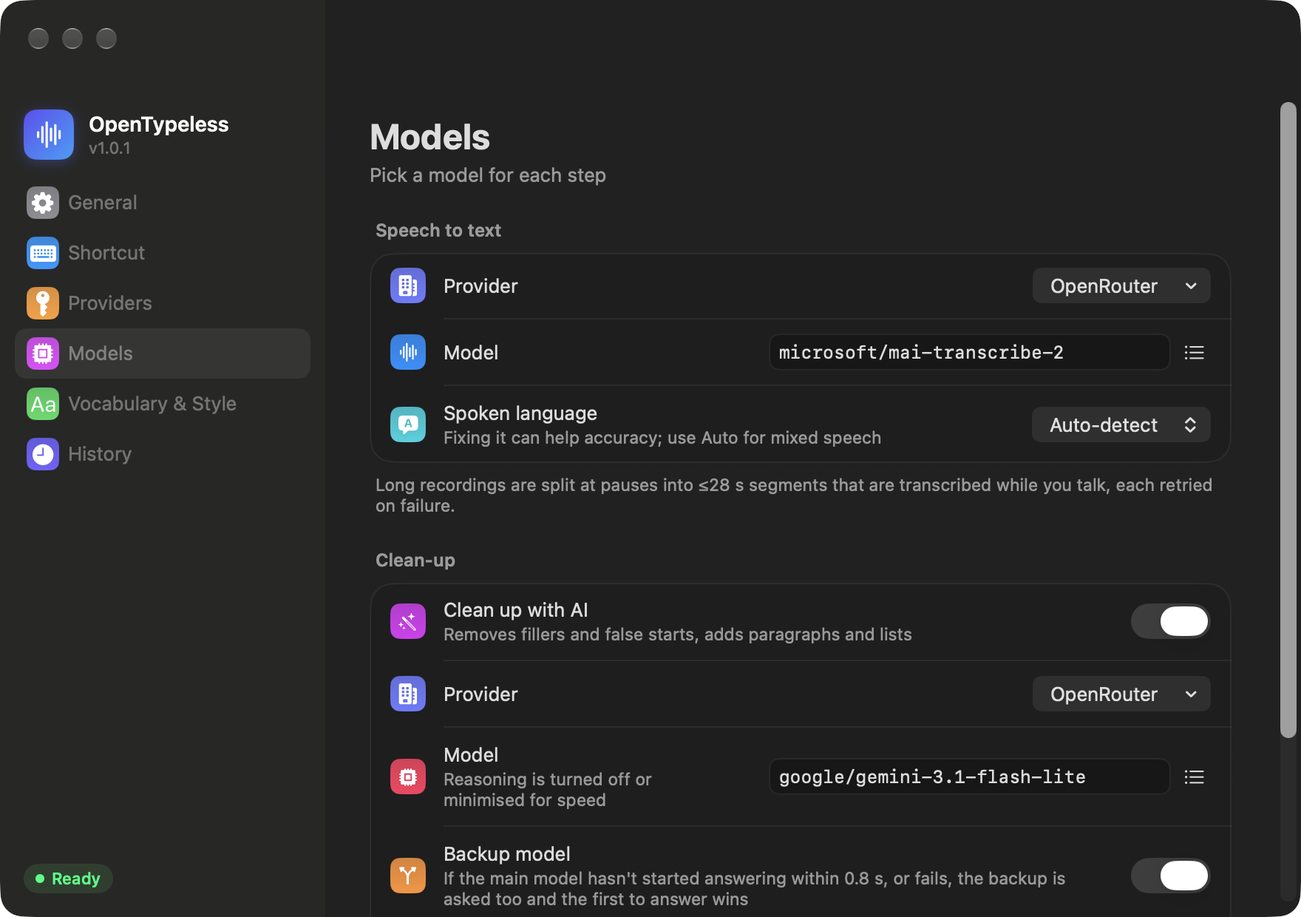
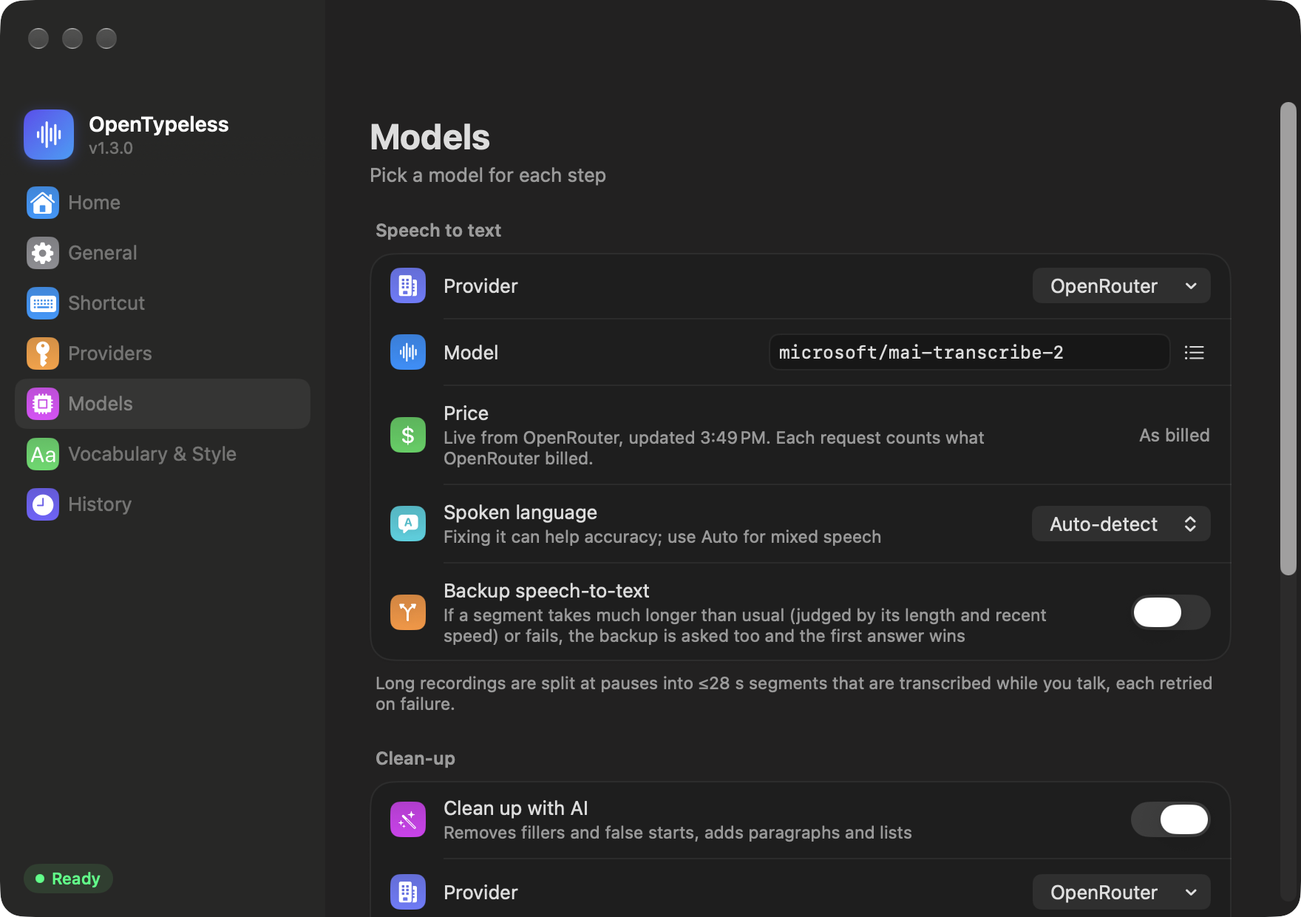
README: screenshots of the current UI, and the Home page
The menu-bar panel, recording capsule, History, Models and Vocabulary
screenshots were taken at 1.0.1; they now show 1.3.0: History grouped by
day with search and cost, Models with live prices and backup
speech-to-text, and the new Home page (added under the feature list, in
all nine READMEs). Captions and alt text follow what the pictures show.

Rendered from sample data as before, never real history, now in a
scratch bundle so the sidebar shows the version:
  OPENTYPELESS_SUPPORT_DIR=<sample> OpenTypeless --snapshot-ui <dir> --live --demo --dark --lang en
`--dark` is new: it renders the dark appearance whatever the system
uses, the menu-bar popover included (it follows the menu bar, not the
app).

No version change.

diff --git a/macos/Sources/OpenTypeless/UISnapshots.swift b/macos/Sources/OpenTypeless/UISnapshots.swift
@@ -9,6 +9,8 @@ enum UISnapshots {
     static func run(outputDirectory: String) {
         // `--demo`: pretend permissions are granted (pair with OPENTYPELESS_SUPPORT_DIR pointing at sample history).
         Permissions.assumeGranted = CommandLine.arguments.contains("--demo")
+        // `--dark`: dark appearance whatever the system uses, so README screenshots match each other.
+        if CommandLine.arguments.contains("--dark") { NSApp.appearance = NSAppearance(named: .darkAqua) }
         let dir = URL(fileURLWithPath: outputDirectory)
         try? FileManager.default.createDirectory(at: dir, withIntermediateDirectories: true)
         let controller = SessionController()
@@ -73,6 +75,8 @@ enum UISnapshots {
         RunLoop.main.run(until: Date().addingTimeInterval(0.5))
         guard let button = item.button, let buttonWindow = button.window else { return }
         popover.show(from: button)
+        // The popover takes the menu bar's appearance, not the app's.
+        if let forced = NSApp.appearance { popover.window?.appearance = forced }
         RunLoop.main.run(until: Date().addingTimeInterval(1.0))
         let icon = buttonWindow.convertToScreen(button.convert(button.bounds, to: nil))
         if let window = popover.window, let screen = buttonWindow.screen {

diff --git a/README.ru.md b/README.ru.md
@@ -65,7 +65,7 @@ OpenTypeless построен вокруг этой проблемы.
 - **Ваши слова, ваши языки.** Правки минимальны: формулировки, порядок и тон остаются вашими. Если вы смешиваете китайский и английский, каждое слово остаётся на том языке, на котором вы его произнесли, даже бытовые («shortcut», «dark mode»), а между текстом CJK и латиницей ставится пробел.
 
 <p align="center">
-  <img src="docs/images/history.png" width="720" alt="История: очищенный текст над исходной расшифровкой, со временем каждого шага">
+  <img src="docs/images/history.png" width="720" alt="История: диктовки сгруппированы по дням и доступны для поиска, с очищенным текстом, временем и стоимостью">
 </p>
 
 Промпт настроен на обучающем и отложенном тестовом наборах (см. [eval/](eval/)), включая реальные диктовки.
@@ -91,13 +91,17 @@ OpenTypeless построен вокруг этой проблемы.
 - **Обновляется сам.** Раз в день проверяет GitHub Releases, скачивает новую версию в фоне и устанавливает её, когда вы нажмёте **Перезапустить и обновить**, — никогда посреди диктовки. Перед заменой файлов загрузка сверяется с SHA-256 от GitHub. Отключить или проверить вручную можно в **Настройки → Общие → Обновления**.
 - **Компактный и нативный.** Приложение на Swift/SwiftUI размером около 3 МБ на macOS и автономное приложение на WinUI 3 в Windows. Без Electron, без учётной записи и без собственного сервера.
 
+<p align="center">
+  <img src="docs/images/home.png" width="720" alt="Главная: надиктованные слова, сэкономленное время, скорость речи, расходы и тепловая карта активности в стиле GitHub">
+</p>
+
 <table>
   <tr>
-    <td width="50%"><img src="docs/images/models.png" alt="Модели: провайдер и модель для каждого шага и резервная модель очистки"></td>
+    <td width="50%"><img src="docs/images/models.png" alt="Модели: провайдер и модель для каждого шага, с актуальными ценами и резервом"></td>
     <td width="50%"><img src="docs/images/vocabulary.png" alt="Словарь: ваши термины, в том числе выученные из ваших исправлений"></td>
   </tr>
   <tr>
-    <td align="center">Провайдер и модель для каждого шага, с резервной моделью очистки</td>
+    <td align="center">Провайдер и модель для каждого шага, с актуальными ценами и резервом</td>
     <td align="center">Словарь, в том числе слова, выученные из ваших исправлений</td>
   </tr>
 </table>

diff --git a/README.ja.md b/README.ja.md
@@ -65,7 +65,7 @@ OpenTypeless はこの問題を中心に作られています。
 - **あなたの言葉、あなたの言語。** 編集は最小限で、言い回し、順序、口調はそのまま残ります。中国語と英語を混ぜて話した場合、日常語も含めて（「shortcut」「dark mode」）すべての単語が話したときの言語のまま残り、CJK と欧文の間にはスペースが入ります。
 
 <p align="center">
-  <img src="docs/images/history.png" width="720" alt="履歴：整形後のテキストが元の文字起こしの上にあり、各ステップの所要時間も表示">
+  <img src="docs/images/history.png" width="720" alt="履歴：日ごとにまとめられ検索でき、整形後のテキスト、所要時間、費用を表示">
 </p>
 
 プロンプトは開発用とホールドアウトのテストセット（[eval/](eval/) を参照）で調整されており、実際の口述も含まれています。
@@ -91,13 +91,17 @@ OpenTypeless はこの問題を中心に作られています。
 - **自動アップデート。** 1 日 1 回 GitHub Releases を確認し、新しいバージョンをバックグラウンドでダウンロードして、**再起動して更新** をクリックしたときにインストールします。音声入力の途中で行うことはありません。ファイルを置き換える前に、ダウンロードを GitHub の SHA-256 と照合します。**設定 → 一般 → アップデート** でオフにしたり、手動で確認したりできます。
 - **小さくてネイティブ。** macOS では約 3 MB の Swift/SwiftUI アプリ、Windows では自己完結型の WinUI 3 アプリ。Electron もアカウントも独自サーバーもありません。
 
+<p align="center">
+  <img src="docs/images/home.png" width="720" alt="ホーム：話した文字数、節約できた時間、話す速さ、費用、GitHub 風アクティビティヒートマップ">
+</p>
+
 <table>
   <tr>
-    <td width="50%"><img src="docs/images/models.png" alt="モデル：ステップごとのプロバイダとモデル、さらに予備の整形モデル"></td>
+    <td width="50%"><img src="docs/images/models.png" alt="モデル：ステップごとのプロバイダとモデル、リアルタイムの価格、さらに予備"></td>
     <td width="50%"><img src="docs/images/vocabulary.png" alt="語彙：修正から学習したものを含むあなたの用語"></td>
   </tr>
   <tr>
-    <td align="center">ステップごとにプロバイダとモデルを選択、予備の整形モデルも</td>
+    <td align="center">ステップごとにプロバイダとモデルを選択、リアルタイムの価格と予備も</td>
     <td align="center">修正から学習した単語を含む語彙</td>
   </tr>
 </table>

diff --git a/README.fr.md b/README.fr.md
@@ -65,7 +65,7 @@ La transcription brute est brouillonne : tics de langage, reprises, « non atten
 - **Vos mots, vos langues.** Les modifications sont minimales : formulation, ordre et ton restent les vôtres. Quand vous mélangez chinois et anglais, chaque mot reste dans la langue où vous l’avez dit, y compris les mots courants (« shortcut », « dark mode »), avec une espace entre texte CJK et texte latin.
 
 <p align="center">
-  <img src="docs/images/history.png" width="720" alt="Historique : le texte nettoyé au-dessus de la transcription brute, avec la durée de chaque étape">
+  <img src="docs/images/history.png" width="720" alt="Historique : les dictées regroupées par jour et consultables par recherche, avec le texte nettoyé, les durées et le coût">
 </p>
 
 Le prompt est ajusté sur des jeux de développement et de test réservés (voir [eval/](eval/)), qui incluent de vraies dictées.
@@ -91,13 +91,17 @@ Le prompt est ajusté sur des jeux de développement et de test réservés (voir
 - **Se met à jour toute seule.** Vérifie GitHub Releases une fois par jour, télécharge la nouvelle version en arrière-plan et l’installe quand vous cliquez sur **Redémarrer pour mettre à jour**, jamais au milieu d’une dictée. Les téléchargements sont vérifiés avec le SHA-256 de GitHub avant tout remplacement. Désactivez-la, ou vérifiez manuellement, dans **Réglages → Général → Mises à jour**.
 - **Légère et native.** Une app Swift/SwiftUI d’environ 3 Mo sur macOS et une app WinUI 3 autonome sur Windows. Pas d’Electron, pas de compte et pas de serveur à elle.
 
+<p align="center">
+  <img src="docs/images/home.png" width="720" alt="Accueil : mots dictés, temps gagné, débit de parole, dépenses et une carte d’activité façon GitHub">
+</p>
+
 <table>
   <tr>
-    <td width="50%"><img src="docs/images/models.png" alt="Modèles : un fournisseur et un modèle pour chaque étape, plus un modèle de nettoyage de secours"></td>
+    <td width="50%"><img src="docs/images/models.png" alt="Modèles : un fournisseur et un modèle pour chaque étape, avec les prix en direct et un secours"></td>
     <td width="50%"><img src="docs/images/vocabulary.png" alt="Vocabulaire : vos termes, y compris ceux appris de vos corrections"></td>
   </tr>
   <tr>
-    <td align="center">Un fournisseur et un modèle pour chaque étape, avec un modèle de nettoyage de secours</td>
+    <td align="center">Un fournisseur et un modèle pour chaque étape, avec les prix en direct et un secours</td>
     <td align="center">Le vocabulaire, y compris les mots appris de vos corrections</td>
   </tr>
 </table>

diff --git a/README.ko.md b/README.ko.md
@@ -65,7 +65,7 @@ OpenTypeless는 바로 이 문제를 중심으로 만들어졌습니다.
 - **여러분의 말, 여러분의 언어.** 수정은 최소한으로 하며 표현, 순서, 말투는 그대로 둡니다. 중국어와 영어를 섞어 말하면 일상 단어("shortcut", "dark mode")까지 모든 단어가 말한 언어 그대로 남고, CJK 문자와 라틴 문자 사이에는 공백이 들어갑니다.
 
 <p align="center">
-  <img src="docs/images/history.png" width="720" alt="기록: 원본 변환 결과 위에 다듬은 텍스트와 단계별 소요 시간">
+  <img src="docs/images/history.png" width="720" alt="기록: 날짜별로 묶이고 검색 가능하며, 다듬은 텍스트와 소요 시간, 비용 표시">
 </p>
 
 프롬프트는 개발용 세트와 홀드아웃 테스트 세트([eval/](eval/) 참고)로 조정했으며, 실제 받아쓰기도 포함되어 있습니다.
@@ -91,13 +91,17 @@ OpenTypeless는 바로 이 문제를 중심으로 만들어졌습니다.
 - **자동 업데이트.** 하루에 한 번 GitHub Releases를 확인하고, 새 버전을 백그라운드에서 다운로드한 뒤 **재시작하여 업데이트**를 클릭할 때 설치합니다. 받아쓰기 도중에는 절대 설치하지 않습니다. 파일을 교체하기 전에 다운로드를 GitHub의 SHA-256과 대조합니다. **설정 → 일반 → 업데이트**에서 끄거나 직접 확인할 수 있습니다.
 - **작고 네이티브.** macOS에서는 약 3MB의 Swift/SwiftUI 앱, Windows에서는 자체 포함형 WinUI 3 앱입니다. Electron도, 계정도, 자체 서버도 없습니다.
 
+<p align="center">
+  <img src="docs/images/home.png" width="720" alt="홈: 받아쓴 단어 수, 절약한 시간, 말하기 속도, 비용, GitHub 스타일 활동 히트맵">
+</p>
+
 <table>
   <tr>
-    <td width="50%"><img src="docs/images/models.png" alt="모델: 단계별 제공업체와 모델, 그리고 백업 다듬기 모델"></td>
+    <td width="50%"><img src="docs/images/models.png" alt="모델: 단계별 제공업체와 모델, 실시간 가격, 그리고 백업"></td>
     <td width="50%"><img src="docs/images/vocabulary.png" alt="어휘: 수정에서 학습한 것을 포함한 나의 용어"></td>
   </tr>
   <tr>
-    <td align="center">단계별로 제공업체와 모델 선택, 백업 다듬기 모델까지</td>
+    <td align="center">단계별로 제공업체와 모델 선택, 실시간 가격과 백업까지</td>
     <td align="center">수정에서 학습한 단어를 포함한 어휘</td>
   </tr>
 </table>

diff --git a/README.de.md b/README.de.md
@@ -65,7 +65,7 @@ Rohe Spracherkennung ist unordentlich: Füllwörter, Neuanfänge, „nein, warte
 - **Deine Worte, deine Sprachen.** Änderungen bleiben minimal: Wortwahl, Reihenfolge und Ton bleiben deine. Wenn du Chinesisch und Englisch mischst, bleibt jedes Wort in der Sprache, in der du es gesagt hast, auch Alltagswörter („shortcut“, „dark mode“), mit Leerzeichen zwischen CJK- und lateinischem Text.
 
 <p align="center">
-  <img src="docs/images/history.png" width="720" alt="Verlauf: der bereinigte Text über dem Rohtranskript, mit der Dauer jedes Schritts">
+  <img src="docs/images/history.png" width="720" alt="Verlauf: Diktate nach Tagen gruppiert und durchsuchbar, mit bereinigtem Text, Zeiten und Kosten">
 </p>
 
 Der Prompt ist auf Entwicklungs- und zurückgehaltenen Testsets abgestimmt (siehe [eval/](eval/)), darunter echte Diktate.
@@ -91,13 +91,17 @@ Der Prompt ist auf Entwicklungs- und zurückgehaltenen Testsets abgestimmt (sieh
 - **Aktualisiert sich selbst.** Prüft einmal täglich GitHub Releases, lädt eine neue Version im Hintergrund und installiert sie, wenn du auf **Neu starten und aktualisieren** klickst, nie mitten in einem Diktat. Downloads werden vor jedem Austausch gegen GitHubs SHA-256 geprüft. Abschalten oder manuell prüfen kannst du unter **Einstellungen → Allgemein → Updates**.
 - **Klein und nativ.** Eine ca. 3 MB große Swift/SwiftUI-App auf macOS und eine eigenständige WinUI-3-App auf Windows. Kein Electron, kein Konto und kein eigener Server.
 
+<p align="center">
+  <img src="docs/images/home.png" width="720" alt="Startseite: diktierte Wörter, gesparte Zeit, Sprechtempo, Kosten und eine Aktivitäts-Heatmap im GitHub-Stil">
+</p>
+
 <table>
   <tr>
-    <td width="50%"><img src="docs/images/models.png" alt="Modelle: ein Anbieter und ein Modell für jeden Schritt, dazu ein Backup-Bereinigungsmodell"></td>
+    <td width="50%"><img src="docs/images/models.png" alt="Modelle: ein Anbieter und ein Modell für jeden Schritt, mit Live-Preisen und einem Backup"></td>
     <td width="50%"><img src="docs/images/vocabulary.png" alt="Vokabular: deine Begriffe, auch die aus deinen Korrekturen gelernten"></td>
   </tr>
   <tr>
-    <td align="center">Anbieter und Modell für jeden Schritt, mit Backup-Bereinigungsmodell</td>
+    <td align="center">Anbieter und Modell für jeden Schritt, mit Live-Preisen und Backup</td>
     <td align="center">Vokabular, auch mit aus deinen Korrekturen gelernten Wörtern</td>
   </tr>
 </table>

diff --git a/README.es.md b/README.es.md
@@ -65,7 +65,7 @@ La transcripción en bruto es desordenada: muletillas, frases que se reinician, 
 - **Tus palabras, tus idiomas.** Los cambios son mínimos: la redacción, el orden y el tono siguen siendo tuyos. Si mezclas chino e inglés, cada palabra se queda en el idioma en que la dijiste, también las cotidianas («shortcut», «dark mode»), con espacio entre el texto CJK y el latino.
 
 <p align="center">
-  <img src="docs/images/history.png" width="720" alt="Historial: el texto limpio sobre la transcripción original, con el tiempo de cada paso">
+  <img src="docs/images/history.png" width="720" alt="Historial: dictados agrupados por día y con búsqueda, con el texto limpio, los tiempos y el coste">
 </p>
 
 El prompt está ajustado con conjuntos de desarrollo y de prueba reservados (ver [eval/](eval/)), que incluyen dictados reales.
@@ -91,13 +91,17 @@ El prompt está ajustado con conjuntos de desarrollo y de prueba reservados (ver
 - **Se actualiza sola.** Busca en GitHub Releases una vez al día, descarga la nueva versión en segundo plano y la instala cuando pulsas **Reiniciar para actualizar**, nunca en mitad de un dictado. Las descargas se comprueban con el SHA-256 de GitHub antes de reemplazar nada. Desactívalo, o búscalas a mano, en **Ajustes → General → Actualizaciones**.
 - **Pequeña y nativa.** Una app Swift/SwiftUI de ~3 MB en macOS y una app WinUI 3 autónoma en Windows. Sin Electron, sin cuenta y sin servidor propio.
 
+<p align="center">
+  <img src="docs/images/home.png" width="720" alt="Inicio: palabras dictadas, tiempo ahorrado, velocidad al hablar, gasto y un mapa de actividad al estilo de GitHub">
+</p>
+
 <table>
   <tr>
-    <td width="50%"><img src="docs/images/models.png" alt="Modelos: un proveedor y un modelo para cada paso, más un modelo de limpieza de respaldo"></td>
+    <td width="50%"><img src="docs/images/models.png" alt="Modelos: un proveedor y un modelo para cada paso, con precios en vivo y un respaldo"></td>
     <td width="50%"><img src="docs/images/vocabulary.png" alt="Vocabulario: tus términos, incluidos los aprendidos de tus correcciones"></td>
   </tr>
   <tr>
-    <td align="center">Elige un proveedor y un modelo para cada paso, con un modelo de limpieza de respaldo</td>
+    <td align="center">Elige un proveedor y un modelo para cada paso, con precios en vivo y un respaldo</td>
     <td align="center">Vocabulario, incluidas las palabras aprendidas de tus correcciones</td>
   </tr>
 </table>

diff --git a/README.pt-BR.md b/README.pt-BR.md
@@ -65,7 +65,7 @@ A transcrição bruta é bagunçada: vícios de linguagem, recomeços, "não, es
 - **Suas palavras, seus idiomas.** As edições são mínimas: palavras, ordem e tom continuam seus. Quando você mistura chinês e inglês, cada palavra fica no idioma em que foi dita, inclusive as do dia a dia ("shortcut", "dark mode"), com espaço entre o texto CJK e o latino.
 
 <p align="center">
-  <img src="docs/images/history.png" width="720" alt="Histórico: o texto limpo acima da transcrição bruta, com o tempo de cada etapa">
+  <img src="docs/images/history.png" width="720" alt="Histórico: ditados agrupados por dia e pesquisáveis, com o texto limpo, os tempos e o custo">
 </p>
 
 O prompt é ajustado com conjuntos de desenvolvimento e de teste reservados (veja [eval/](eval/)), incluindo ditados reais.
@@ -91,13 +91,17 @@ O prompt é ajustado com conjuntos de desenvolvimento e de teste reservados (vej
 - **Atualiza sozinho.** Verifica o GitHub Releases uma vez por dia, baixa a nova versão em segundo plano e instala quando você clica em **Reiniciar para atualizar**, nunca no meio de um ditado. Os downloads são conferidos com o SHA-256 do GitHub antes de qualquer substituição. Desative, ou verifique manualmente, em **Configurações → Geral → Atualizações**.
 - **Pequeno e nativo.** Um app Swift/SwiftUI de ~3 MB no macOS e um app WinUI 3 independente no Windows. Sem Electron, sem conta e sem servidor próprio.
 
+<p align="center">
+  <img src="docs/images/home.png" width="720" alt="Início: palavras ditadas, tempo economizado, velocidade de fala, gastos e um mapa de atividade no estilo do GitHub">
+</p>
+
 <table>
   <tr>
-    <td width="50%"><img src="docs/images/models.png" alt="Modelos: um provedor e um modelo para cada etapa, mais um modelo reserva de limpeza"></td>
+    <td width="50%"><img src="docs/images/models.png" alt="Modelos: um provedor e um modelo para cada etapa, com preços ao vivo e uma reserva"></td>
     <td width="50%"><img src="docs/images/vocabulary.png" alt="Vocabulário: seus termos, incluindo os aprendidos com suas correções"></td>
   </tr>
   <tr>
-    <td align="center">Escolha um provedor e um modelo para cada etapa, com um modelo reserva de limpeza</td>
+    <td align="center">Escolha um provedor e um modelo para cada etapa, com preços ao vivo e uma reserva</td>
     <td align="center">Vocabulário, incluindo palavras aprendidas com suas correções</td>
   </tr>
 </table>

diff --git a/README.md b/README.md
@@ -65,7 +65,7 @@ Raw speech-to-text is messy: fillers, restarts, "no wait, I mean…", thinking o
 - **Your words, your languages.** Edits are kept to a minimum: wording, order and tone stay yours. When you mix Chinese and English, every word stays in the language you said it in, everyday words too ("shortcut", "dark mode"), with spacing between CJK and Latin text.
 
 <p align="center">
-  <img src="docs/images/history.png" width="720" alt="History: the cleaned-up text above the raw transcript, with timing for each step">
+  <img src="docs/images/history.png" width="720" alt="History: dictations grouped by day and searchable, with the cleaned-up text, timing and cost">
 </p>
 
 The prompt is tuned against development and held-out test sets (see [eval/](eval/)), including real dictations.
@@ -91,13 +91,17 @@ The prompt is tuned against development and held-out test sets (see [eval/](eval
 - **Updates itself.** Checks GitHub Releases once a day, downloads a new version in the background and installs it when you click **Restart to update**, never in the middle of a dictation. Downloads are checked against GitHub's SHA-256 before anything is replaced. Turn it off, or check by hand, under **Settings → General → Updates**.
 - **Small and native.** A ~3 MB Swift/SwiftUI app on macOS and a self-contained WinUI 3 app on Windows. No Electron, no account and no server of its own.
 
+<p align="center">
+  <img src="docs/images/home.png" width="720" alt="Home: words dictated, time saved, speaking speed, spend and a GitHub-style activity heatmap">
+</p>
+
 <table>
   <tr>
-    <td width="50%"><img src="docs/images/models.png" alt="Models: a provider and model for each step, plus a backup clean-up model"></td>
+    <td width="50%"><img src="docs/images/models.png" alt="Models: a provider and model for each step, with live prices and a backup"></td>
     <td width="50%"><img src="docs/images/vocabulary.png" alt="Vocabulary: your terms, including ones learned from your corrections"></td>
   </tr>
   <tr>
-    <td align="center">Pick a provider and model for each step, with a backup clean-up model</td>
+    <td align="center">Pick a provider and model for each step, with live prices and a backup</td>
     <td align="center">Vocabulary, including words learned from your corrections</td>
   </tr>
 </table>

diff --git a/README.zh-CN.md b/README.zh-CN.md
@@ -65,7 +65,7 @@ OpenTypeless 就是围绕这个问题做的。
 - **你的用词、你的语言。** 改动尽量少：措辞、顺序和语气都保持原样。中英混说时，每个词都保留你说出它时的语言，日常词也一样（“shortcut”、“dark mode”），中文和英文之间加空格。
 
 <p align="center">
-  <img src="docs/images/history.png" width="720" alt="历史：整理后的文字在原始转写上方，并显示每个步骤的耗时">
+  <img src="docs/images/history.png" width="720" alt="历史：按天分组、可以搜索，显示整理后的文字、耗时和花费">
 </p>
 
 提示词在开发集和留出测试集上调优（见 [eval/](eval/)），其中包括真实的口述。
@@ -91,13 +91,17 @@ OpenTypeless 就是围绕这个问题做的。
 - **自动更新。** 每天检查一次 GitHub Releases，在后台下载新版本，你点 **重启更新** 时才安装，绝不会在听写中途进行。替换任何文件之前都会用 GitHub 的 SHA-256 校验下载内容。可以在 **设置 → 通用 → 更新** 里关闭或手动检查。
 - **小巧、原生。** macOS 上是约 3 MB 的 Swift/SwiftUI 应用，Windows 上是自包含的 WinUI 3 应用。没有 Electron，不需要账号，也没有自己的服务器。
 
+<p align="center">
+  <img src="docs/images/home.png" width="720" alt="主页：说了多少字、省了多少时间、说话速度、花费，以及 GitHub 风格的活跃度热力图">
+</p>
+
 <table>
   <tr>
-    <td width="50%"><img src="docs/images/models.png" alt="模型：每个步骤选择服务商和模型，外加一个备用整理模型"></td>
+    <td width="50%"><img src="docs/images/models.png" alt="模型：每个步骤选择服务商和模型，显示实时价格，并可设置备用"></td>
     <td width="50%"><img src="docs/images/vocabulary.png" alt="词汇表：你的术语，包括从你的修改中学到的词"></td>
   </tr>
   <tr>
-    <td align="center">为每个步骤选择服务商和模型，外加备用整理模型</td>
+    <td align="center">为每个步骤选择服务商和模型，显示实时价格，外加备用</td>
     <td align="center">词汇表，包括从你的修改中学到的词</td>
   </tr>
 </table>
